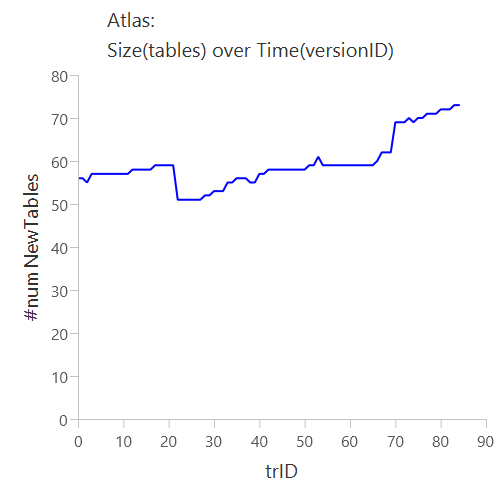
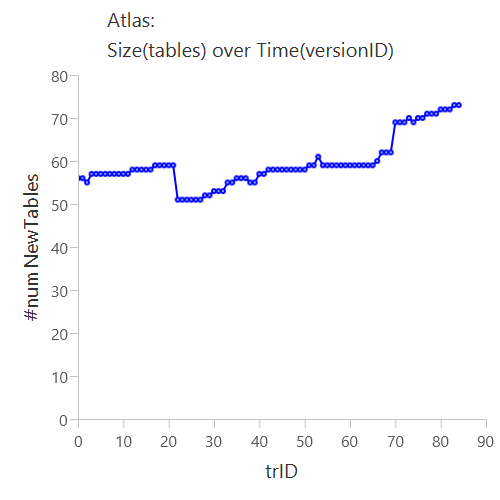
Changed line chart stylesheet to show point markers on the line.

diff --git a/src/chartexport/exporters/stylesheets/lineChartStyle.css b/src/chartexport/exporters/stylesheets/lineChartStyle.css
@@ -23,6 +23,11 @@ Line { -fx-opacity: 0.2; }
 	-fx-stroke: green;
 }
 
-.default-color0.chart-line-symbol { -fx-background-color: transparent, transparent; }
-.default-color1.chart-line-symbol { -fx-background-color: transparent, transparent; }
-.default-color2.chart-line-symbol { -fx-background-color: transparent, transparent; }
+.chart-line-symbol {
+    -fx-background-radius: 3px;
+    -fx-padding: 3px;
+}
+
+.default-color0.chart-line-symbol { -fx-background-color: blue, lightblue; }
+.default-color1.chart-line-symbol { -fx-background-color: red, orange; }
+.default-color2.chart-line-symbol { -fx-background-color: green, lightgreen; }
